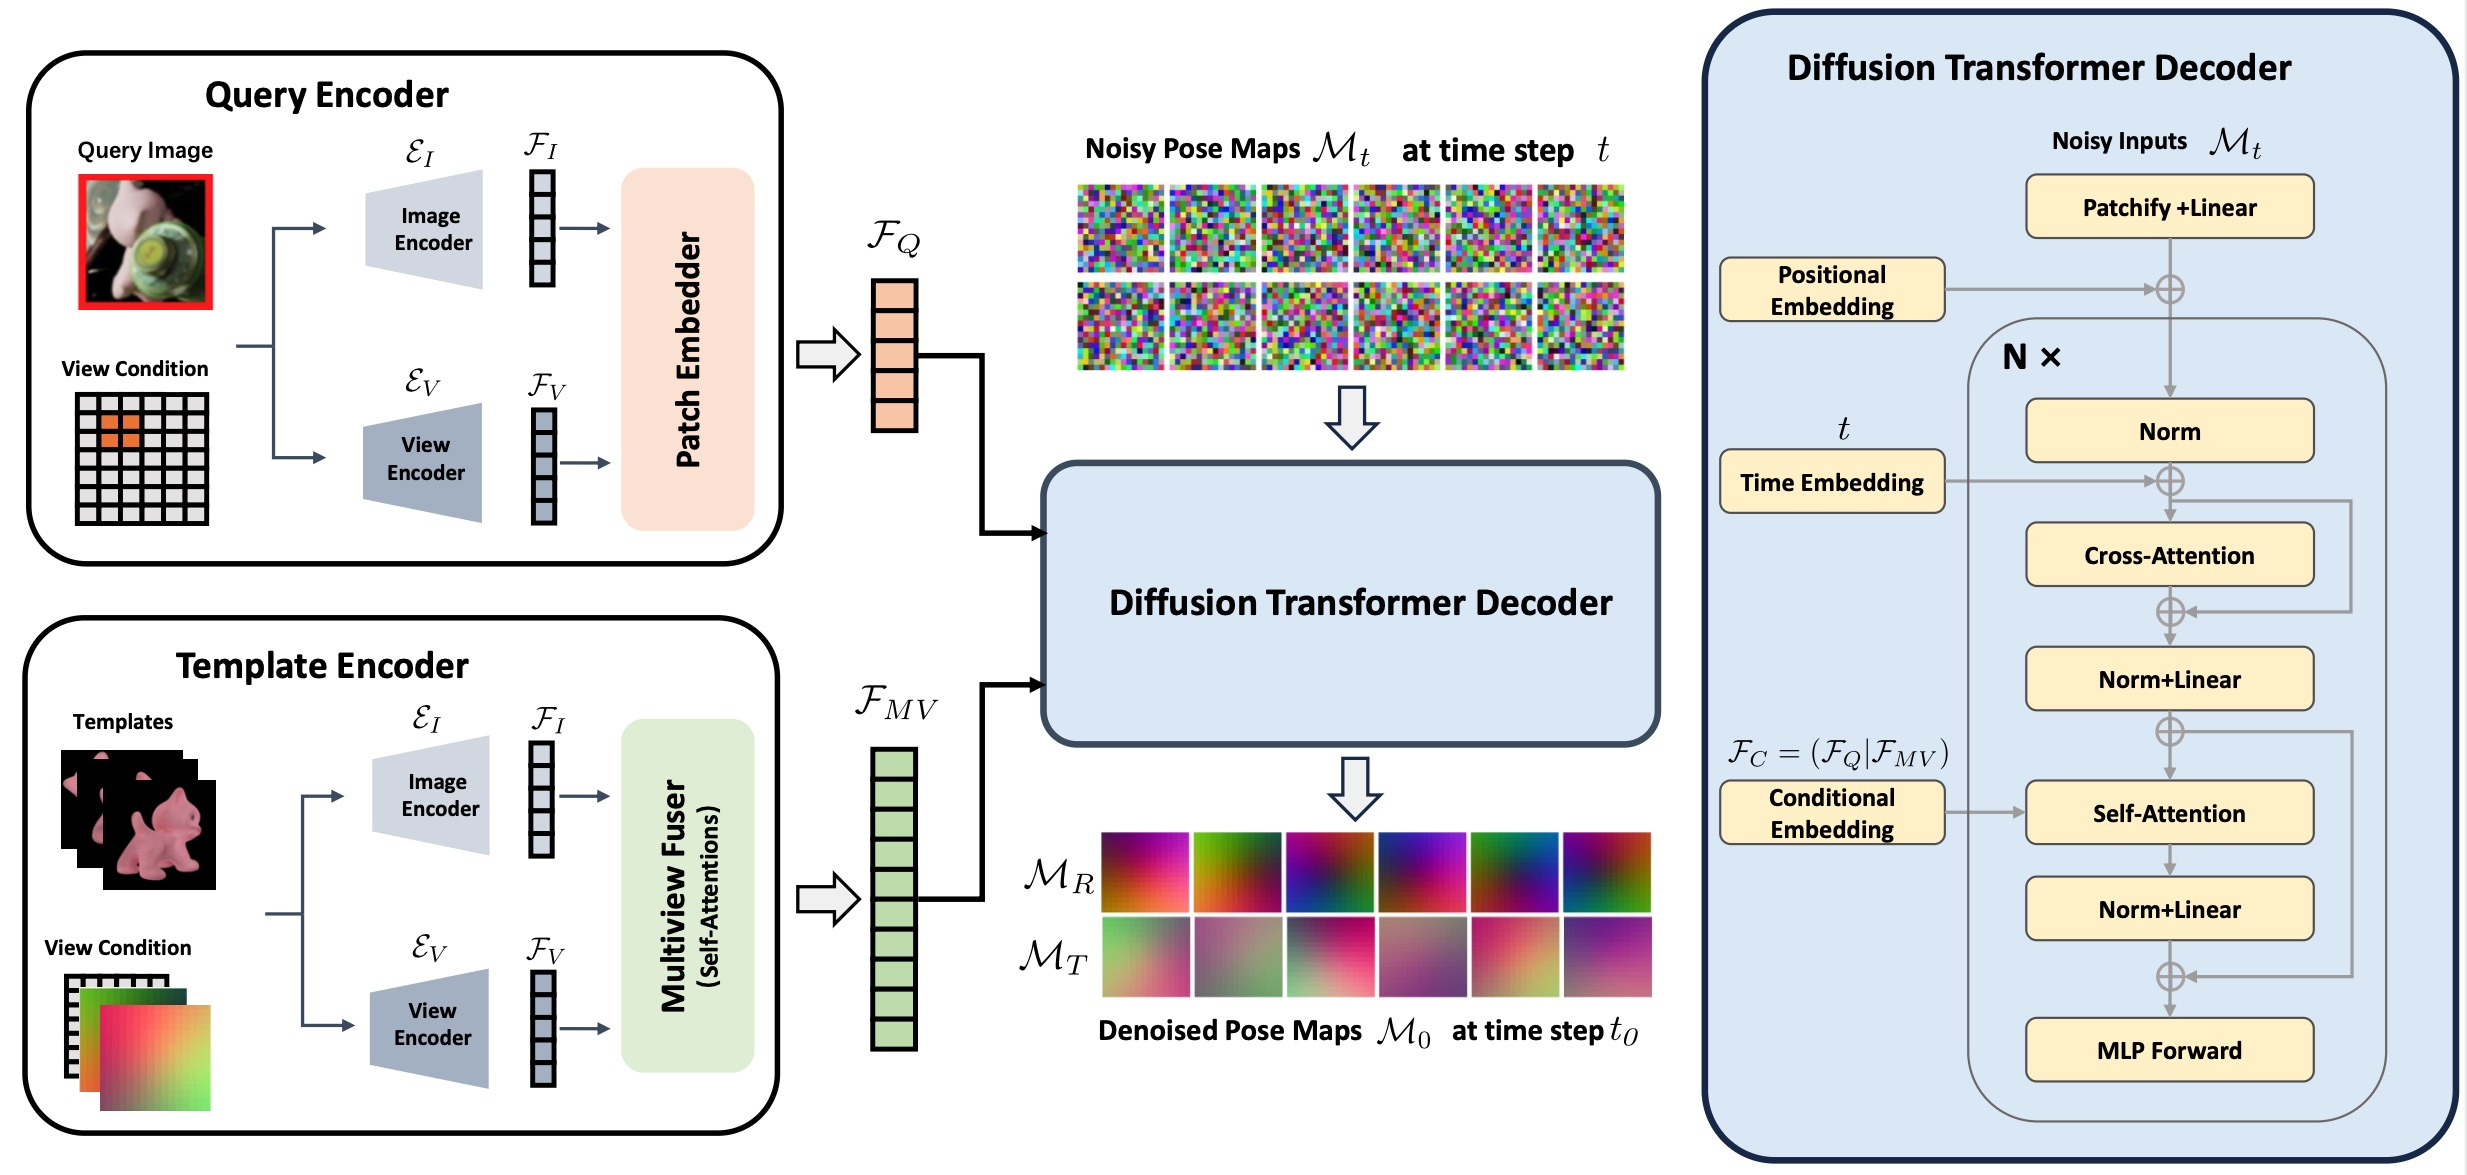
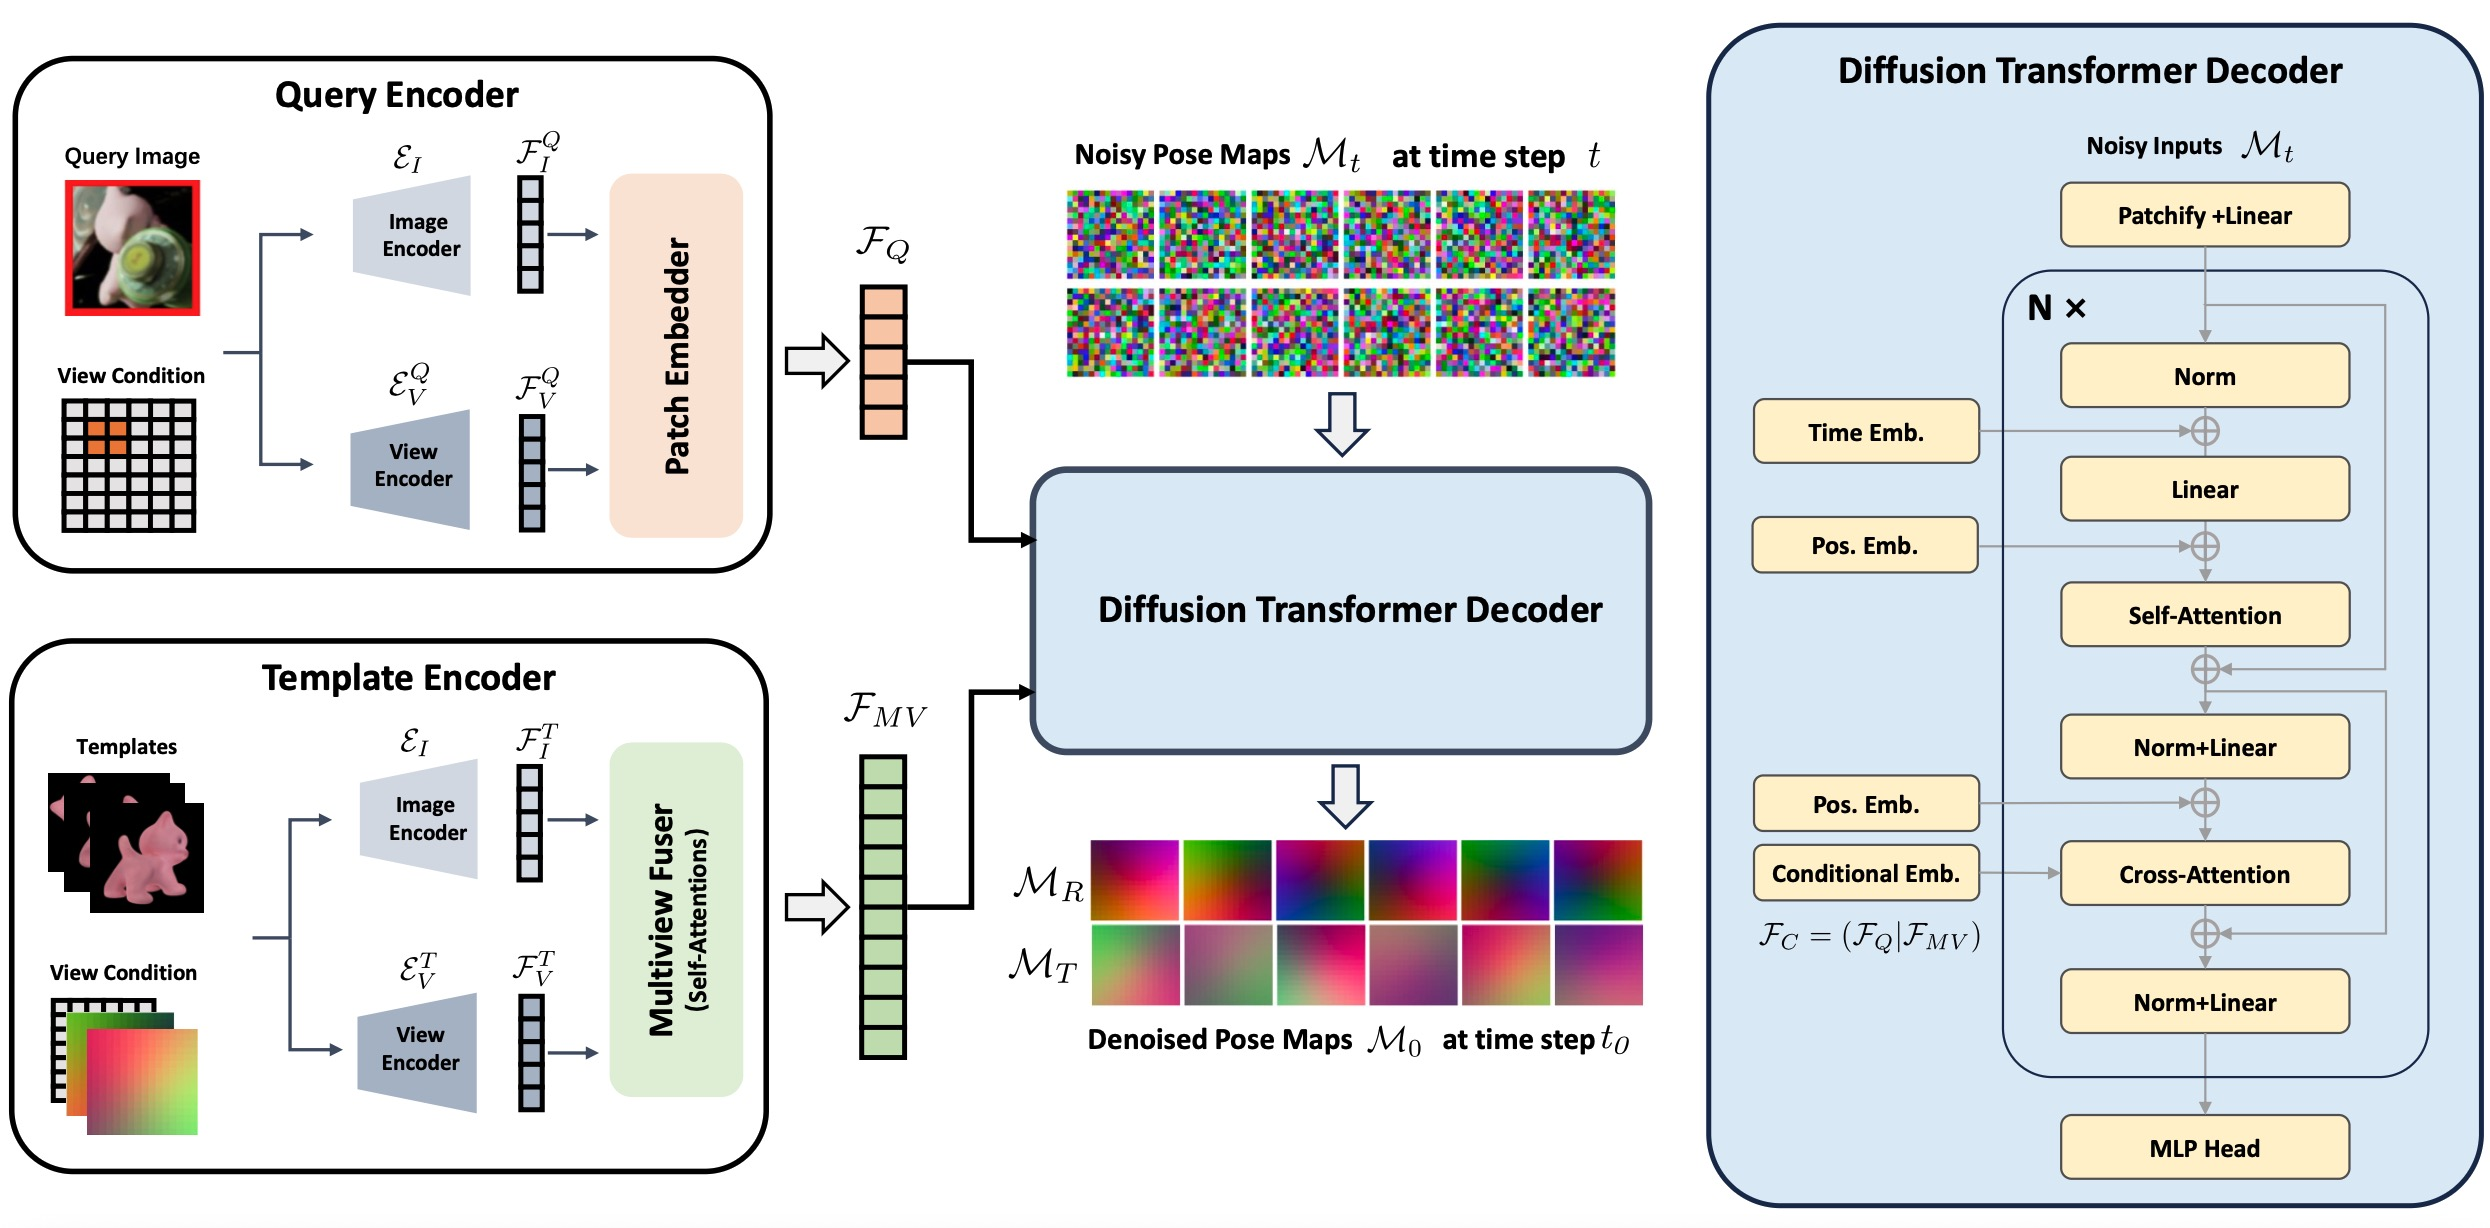
Update RayPose project page and overview image

diff --git a/projects/RayPose/index.html b/projects/RayPose/index.html
@@ -13,9 +13,8 @@
 
 
   <title>RayPose</title>
-
+  <meta name="google-site-verification" content="Rztvg3Y2fxxru0hW2OFVYzRY6hm4vIwit_Bs4-5Q5Lo" />
   <!-- Global site tag (gtag.js) - Google Analytics -->
-  <!-- <script async src="https://www.googletagmanager.com/gtag/js?id=G-PYVRSFMDRL"></script> -->
   <script>
     window.dataLayer = window.dataLayer || [];
 
@@ -81,11 +80,11 @@
                   <span class="icon">
                     <i class="ai ai-arxiv"></i>
                   </span>
-                  <span>arXiv</span>
+                  <span>paper</span>
                   </a>
                 </span>
 
-                <!-- Paper PDF link -->
+                <!-- Paper PDF link
                 <span class="link-block">
                   <a href="static/pdfs/sample.pdf" target="_blank"
                   class="external-link button is-normal is-rounded is-dark">
@@ -94,9 +93,9 @@
                   </span>
                   <span>Paper</span>
                 </a>
-              </span>
+              </span> -->
 
-                  <!-- Github link -->
+                  <!-- Github link
                   <span class="link-block">
                     <a href="https://github.com/YOUR REPO HERE" target="_blank"
                     class="external-link button is-normal is-rounded is-dark" disabled>
@@ -105,7 +104,7 @@
                     </span>
                     <span>Code</span>
                   </a>
-                </span>
+                </span> -->
 
                 
             </div>
@@ -144,13 +143,14 @@
         <h2 class="title is-3">Abstract</h2>
         <div class="content has-text-justified">
           <p>
-            Typical template-based object pose pipelines first find the closest template and then align it to the current observation.
-            The failure to find the closest template results in the wrong pose estimate. 
-            Instead, we reformulate object pose estimation with template images as a ray alignment problem where viewing directions from multiple posed template views need to mutually align with a non-posed object query. 
-            Inspired by recent advancements in denoising diffusion frameworks for camera pose estimation, we integrate this formulation into a diffusion transformer architecture capable of aligning a single query image of an object with a set of template views. 
-            Our method reparametrizes object rotation by introducing object-centered camera rays and object translation by extending Scale-Invariant Translation Estimation (SITE) to dense translation offsets. 
-            Our method leverages view priors from template images to enhance the model's ability to accurately infer query object poses. Using a coarse-to-fine training strategy with narrowed template sampling, our approach improves performance without modifying the network architecture, increasing robustness in 6D object pose estimation.
-            Extensive evaluations on various benchmark datasets demonstrate the superiority of our method over state-of-the-art approaches in unseen object pose estimation. 
+            Typical template-based object pose pipelines estimate the pose by retrieving the closest matching template and aligning it with the observed image. 
+            However, failure to retrieve the correct template often leads to inaccurate pose predictions. To address this, we reformulate template-based object pose estimation as a ray alignment problem, where the viewing directions from multiple posed template images are learned to align with a non-posed query image. 
+            Inspired by recent progress in diffusion-based camera pose estimation, we embed this formulation into a diffusion transformer architecture that aligns a query image with a set of posed templates. 
+            We reparameterize object rotation using object-centered camera rays and model object translation by extending scale-invariant translation estimation to dense translation offsets. 
+            Our model leverages geometric priors from the templates to guide accurate query pose inference. 
+            A coarse-to-fine training strategy based on narrowed template sampling improves performance without modifying the network architecture. 
+            Extensive experiments across multiple benchmark datasets show competitive results of our method compared to state-of-the-art approaches in unseen object pose estimation.
+            
           </p>
         </div>
       </div>
@@ -194,9 +194,9 @@ End youtube video -->
       <img src="./static/images/overview.jpg" alt="MY ALT TEXT"/>
       <h2 class="content has-text-justified">
         We represent the 6D object pose using structured rotation and translation maps and employ a diffusion model to estimate the pose from random inputs. 
-        Given a query image of an unseen object and multiple template images with known poses, we first extract image embeddings from a query encoder and view embeddings from a template encoder. 
-        These embeddings serve as conditioning inputs for a diffusion transformer decoder, which iteratively refines the rotation and translation maps. 
-        The model predicts the relative pose between the query and templates, from which the absolute 6D pose of the query object is reconstructed.
+        Given a query image of an unseen object and multiple template images with known object poses, our method first extracts query embeddings from a query encoder and multiview posed template embeddings from a template encoder.  
+        These embeddings serve as conditioning inputs for a diffusion transformer decoder, which is trained to denoise the object pose from random inputs. 
+        The model predicts the relative pose between the query and templates, from which the absolute 6D pose of the query object is reconstructed based on the known poses for the templates.
       </h2>
     </div>
     </div>
